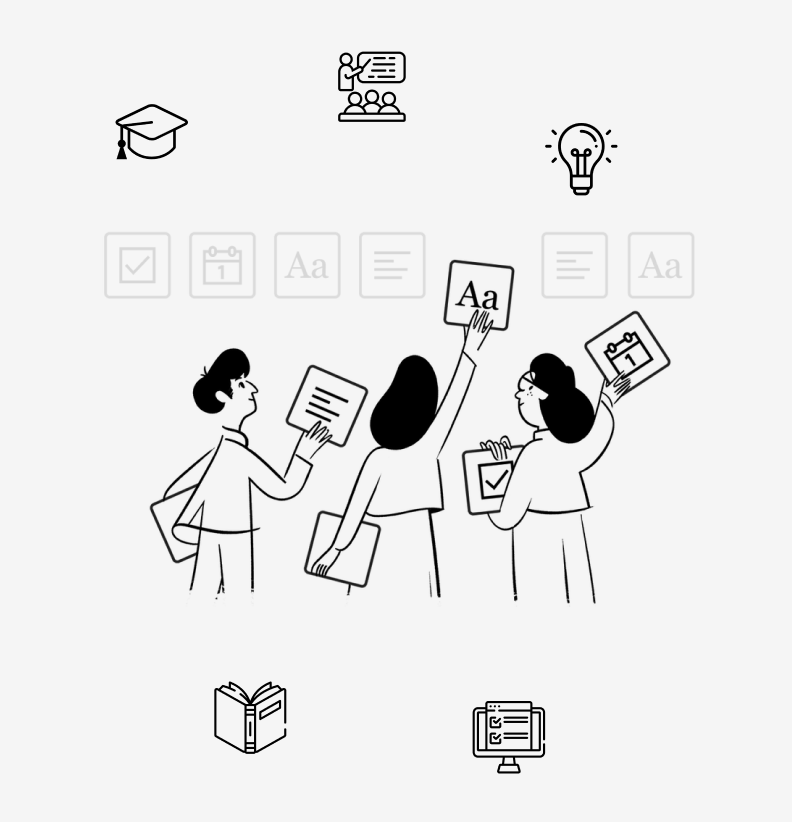
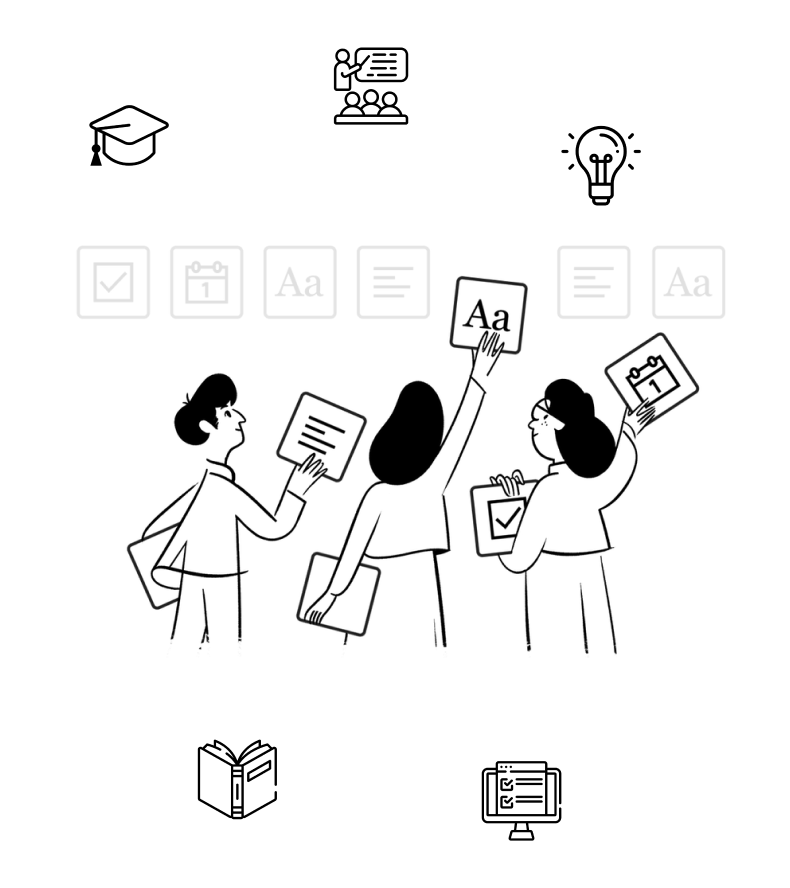
Login/Signup Pages added

diff --git a/login.css b/login.css
@@ -1,0 +1,89 @@
+/* Login Page Styles */
+* {
+    box-sizing: border-box; /* Apply box-sizing to all elements */
+}
+
+body {
+    font-family: Poppins, sans-serif;
+    margin: 0;
+    padding: 0;
+    background-color: #ffffff;
+    display: flex;
+    justify-content: center;
+    align-items: center;
+    height: 100vh;
+}
+
+.login-container {
+    background: #edf8fe;
+    padding: 40px;
+    border-radius: 10px;
+    box-shadow: 0 4px 8px rgba(0,0,0,0.1);
+    width: 90%;
+    max-width: 400px;
+}
+
+.login-form {
+    display: flex;
+    flex-direction: column;
+    align-items: center;
+}
+
+.logo-login {
+    width: 60px;
+    height: 60px;
+    border-radius: 10px;
+}
+
+.login-form h1 {
+    color: #333;
+    margin-bottom: 20px;
+    font-family: Poppins, sans-serif;
+}
+
+.login-form input {
+    width: 100%;
+    padding: 10px;
+    margin-bottom: 15px;
+    border: 2px solid #8ba4ff;
+    border-radius: 5px;
+    font-family: Poppins, sans-serif;
+    font-size: 1rem;
+    color: #333;
+}
+
+.login-form input::placeholder {
+    color: #aaa;
+}
+
+.login-btn {
+    width: 100%;
+    padding: 10px;
+    background-color: #8ba4ff;
+    color: white;
+    border: 2px solid #8ba4ff;
+    border-radius: 5px;
+    cursor: pointer;
+    transition: background-color 0.3s;
+    font-family: Poppins, sans-serif;
+    font-size: 1rem;
+    margin: 0 auto;
+    display: block;
+}
+
+.login-btn:hover {
+    background-color: #216bff;
+}
+
+.login-form p {
+    color: #333;
+}
+
+.login-form a {
+    color: #8ba4ff;
+    text-decoration: none;
+}
+
+.login-form a:hover {
+    text-decoration: underline;
+}

diff --git a/login.html b/login.html
@@ -13,12 +13,11 @@
         <div class="login-form">
             <img src="static/images/studdies_logo.png" alt="Studdies Logo" class="logo-login">
             <h1>Login</h1>
-            <form action="submit_signup.php" method="POST">
-                <input type="name" id="name" name="name" placeholder="Enter your name" required>
+            <form action="submit_login.php" method="POST">
                 <input type="email" id="email" name="email" placeholder="Enter your email" required>
                 <input type="password" id="password" name="password" placeholder="Enter your password" required>
                 <button type="submit" class="login-btn">Login</button>
-                <p>Already a member? <a href="login.html">Login now</a></p>
+                <p>Not a member? <a href="signup.html">Signup now</a></p>
             </form>
         </div>
     </div>

diff --git a/index.html b/index.html
@@ -50,7 +50,7 @@
 
             <!-- Right-side content -->
             <div class="graphic-container">
-                <img src="static/images/Screenshot 2024-05-13 at 2.43.39 PM.png" alt="Description of your graphic" class="main-graphic">
+                <img src="static/images/studdies_mainGraphic.png" alt="Description of your graphic" class="main-graphic">
             </div>
 
         </div>
